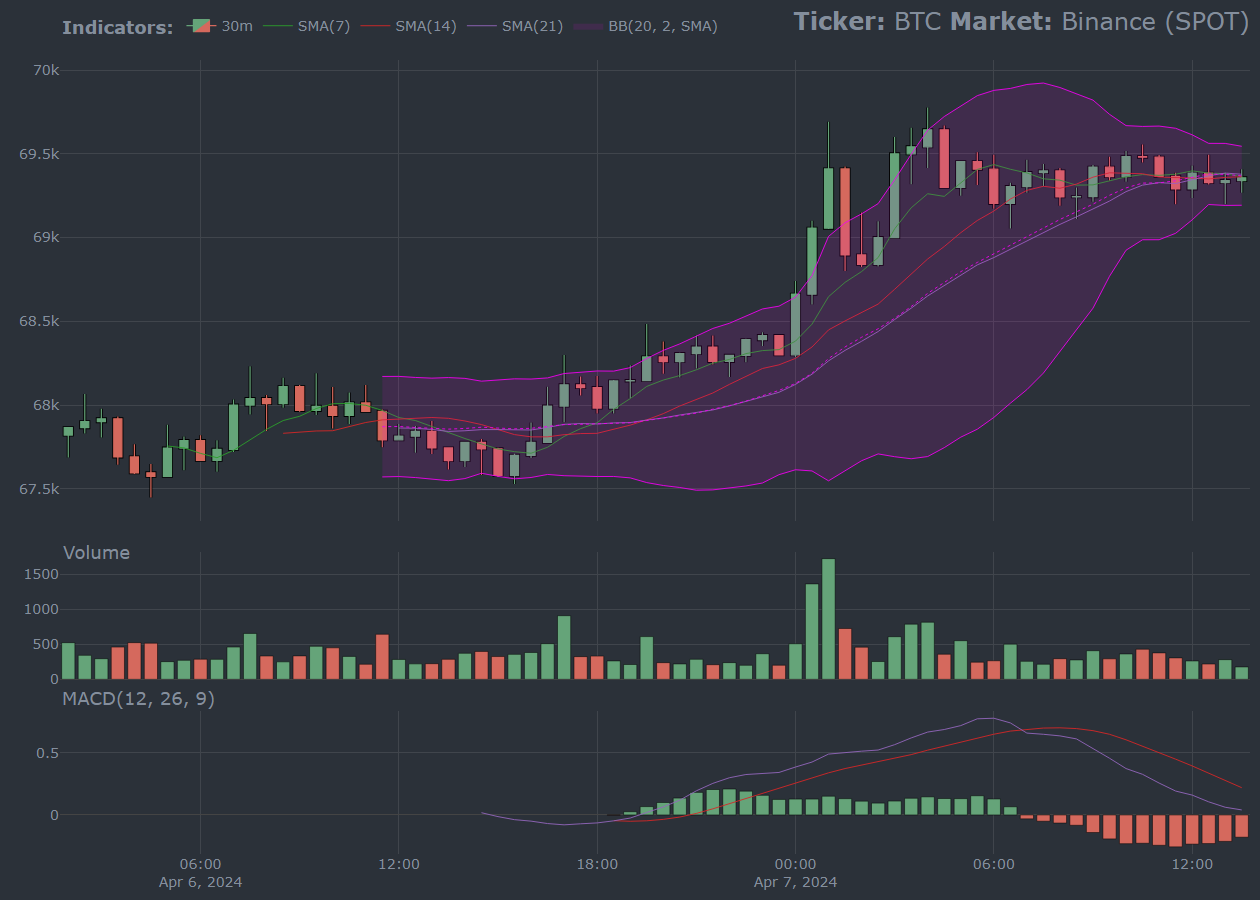
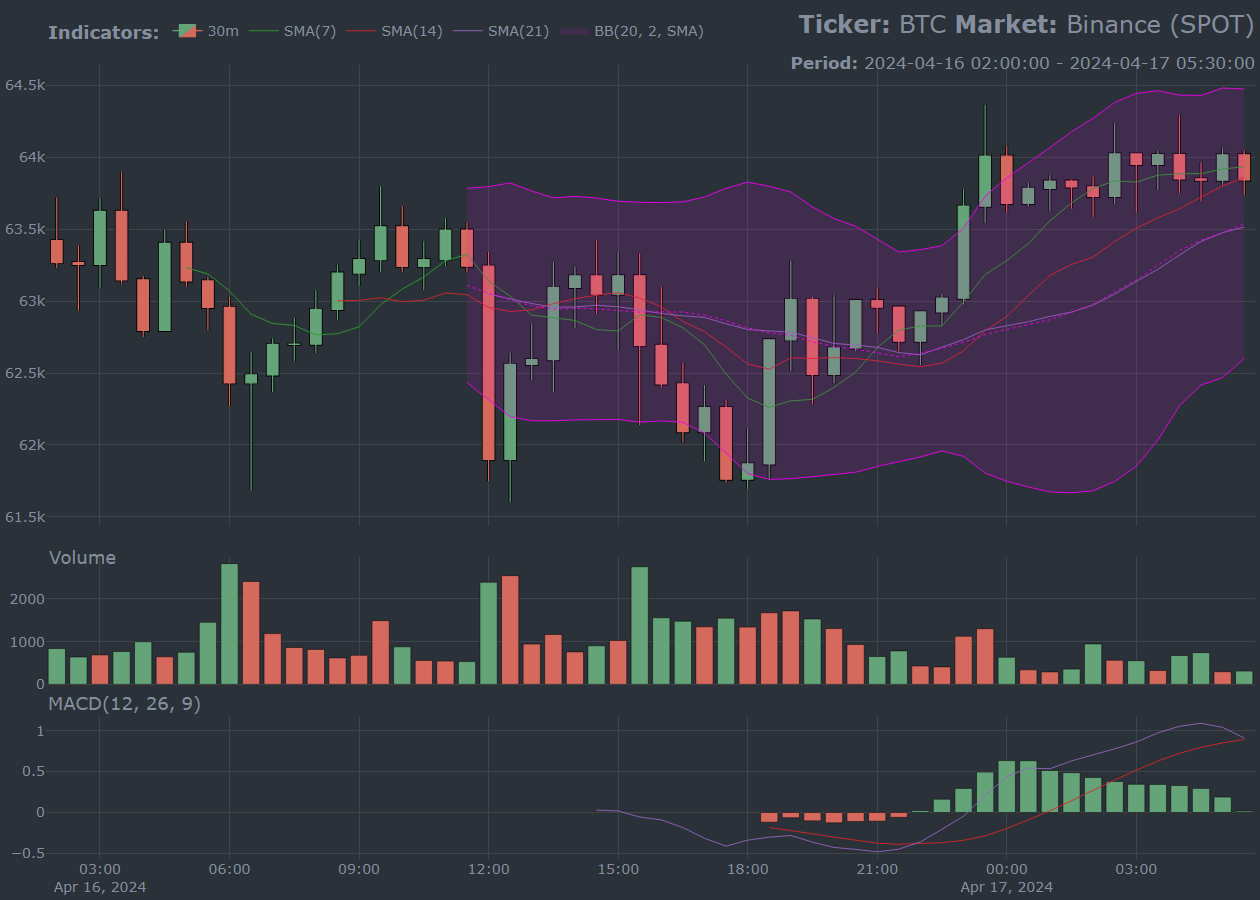
Updated Chart-layout
All charts now displays date range as a subtitle. Fixed a bug where charts would throw an error if the data were too small. NEWS.MD updated accordingly.

diff --git a/README.md b/README.md
@@ -215,122 +215,122 @@ volume
 <tbody>
 <tr>
 <td style="text-align:left;">
-2024-04-07 11:00:00
+2024-04-17 03:00:00
 </td>
 <td style="text-align:center;">
-69479.99
+64022.6
 </td>
 <td style="text-align:center;">
-69493.25
+64024.1
 </td>
 <td style="text-align:center;">
-69365.95
+63615
 </td>
 <td style="text-align:center;">
-69365.95
+63949.99
 </td>
 <td style="text-align:left;">
-376.57463
+553.07406
 </td>
 </tr>
 <tr>
 <td style="text-align:left;">
-2024-04-07 11:30:00
+2024-04-17 03:30:00
 </td>
 <td style="text-align:center;">
-69365.95
+63949.99
 </td>
 <td style="text-align:center;">
-69386.9
+64048.79
 </td>
 <td style="text-align:center;">
-69199.01
+63771.9
 </td>
 <td style="text-align:center;">
-69289.99
+64017.64
 </td>
 <td style="text-align:left;">
-305.43605
+324.96745
 </td>
 </tr>
 <tr>
 <td style="text-align:left;">
-2024-04-07 12:00:00
+2024-04-17 04:00:00
 </td>
 <td style="text-align:center;">
-69290
+64017.64
 </td>
 <td style="text-align:center;">
-69430.54
+64295
 </td>
 <td style="text-align:center;">
-69236
+63750.01
 </td>
 <td style="text-align:center;">
-69384.01
+63849.16
 </td>
 <td style="text-align:left;">
-261.77595
+673.35361
 </td>
 </tr>
 <tr>
 <td style="text-align:left;">
-2024-04-07 12:30:00
+2024-04-17 04:30:00
 </td>
 <td style="text-align:center;">
-69384.01
+63849.15
 </td>
 <td style="text-align:center;">
-69495.15
+63964.36
 </td>
 <td style="text-align:center;">
-69317
+63694.28
 </td>
 <td style="text-align:center;">
-69328.14
+63840.08
 </td>
 <td style="text-align:left;">
-217.97588
+742.32923
 </td>
 </tr>
 <tr>
 <td style="text-align:left;">
-2024-04-07 13:00:00
+2024-04-17 05:00:00
 </td>
 <td style="text-align:center;">
-69328.14
+63840.09
 </td>
 <td style="text-align:center;">
-69386.4
+64067.41
 </td>
 <td style="text-align:center;">
-69200
+63802.5
 </td>
 <td style="text-align:center;">
-69340.01
+64016.47
 </td>
 <td style="text-align:left;">
-280.18258
+294.55728
 </td>
 </tr>
 <tr>
 <td style="text-align:left;">
-2024-04-07 13:30:00
+2024-04-17 05:30:00
 </td>
 <td style="text-align:center;">
-69340.01
+64016.48
 </td>
 <td style="text-align:center;">
-69407.72
+64048.79
 </td>
 <td style="text-align:center;">
-69267.08
+63733.92
 </td>
 <td style="text-align:center;">
-69357
+63842.02
 </td>
 <td style="text-align:left;">
-176.5647
+309.33816
 </td>
 </tr>
 </tbody>

diff --git a/NEWS.md b/NEWS.md
@@ -5,6 +5,7 @@
 ### Charting
 
 * The `chart()`-function now has proper `light`-theme available that isnt the default `plotly`-values.
+* The charts now displays date ranges as a subtitles.
 * The `bollinger_bands()`-function now accepts a `color`-argument. These can be passed as `Hexadecimal`-colors or as is, `"blue"` for example.
 
 
